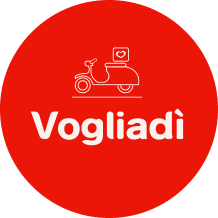
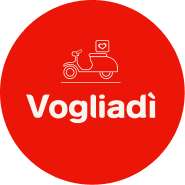
finito spashscreen

diff --git a/lib/screens/spashScreen.dart b/lib/screens/spashScreen.dart
@@ -2,6 +2,8 @@ import 'package:flutter/material.dart';
 import 'package:vogliadifood_app/utils/colors.dart';
 import 'package:vogliadifood_app/utils/helper.dart';
 
+import 'loginScreen.dart';
+
 
 class SplashScreen extends StatelessWidget {
   @override
@@ -20,7 +22,10 @@ class SplashScreen extends StatelessWidget {
             fit: BoxFit.fill,
           ),
     ),
-
+        Align(
+          alignment: Alignment.center,
+          child: Image.asset("assets/image/icona_rossa_elisse.png"),
+        ),
 
         Align(
           alignment: Alignment.bottomCenter,
@@ -31,35 +36,50 @@ class SplashScreen extends StatelessWidget {
         child: Column(
           children: [
             Flexible(child: Text(
-        "Voglia di l'app del food che c'è sempre per te",
+        "Voglia di l'app del food che c'è sempre per te. Accedi o regitrati per soddisfare le tue Vogliedì..",
               textAlign: TextAlign.center,
 
             ),),
 
-Spacer(),
+            Spacer(
+              flex: 1,
+            ),
+                        SizedBox(
+             width: double.infinity,
+            height: 50,
+            child: ElevatedButton(
+             onPressed: (){
+               Navigator.of(context)
+                   .pushReplacementNamed(LoginScreen.routeName);
+             },
+              style: TextButton.styleFrom(
+                primary: AppColors.Bianco, // Text Color
+              ),
+              child: Text("Login"),
+            ),
+             ),
             SizedBox(
- width: double.infinity,
-height: 50,
-child: ElevatedButton(
- onPressed: (){},
-  style: TextButton.styleFrom(
-    primary: AppColors.Bianco, // Text Color
-  ),
-  child: Text("Login"),
-),
- ),
-            Spacer(),
+              height: 20,
+            ),
             SizedBox(
               width: double.infinity,
               height: 50,
               child: ElevatedButton(
-                onPressed: (){},
-                style: TextButton.styleFrom(
-                  primary: AppColors.Bianco, // Text Color
+                style: ButtonStyle(
+                  backgroundColor: MaterialStateProperty.all(Colors.black),
+                  foregroundColor: MaterialStateProperty.all(AppColors.Bianco),
+                  shape: MaterialStateProperty.all(
+                    StadiumBorder(
+                      side:
+                        BorderSide(color: AppColors.Bianco, width: 1.5),
+                    ),
+                  ),
                 ),
+                onPressed: (){},
                 child: Text("Crea il tuo account"),
+                ),
+
               ),
-            )
             //minutaggio 15:56
           ],
 

diff --git a/lib/main.dart b/lib/main.dart
@@ -1,4 +1,5 @@
 import 'package:flutter/material.dart';
+import 'package:vogliadifood_app/screens/loginScreen.dart';
 import 'package:vogliadifood_app/utils/colors.dart';
 import './screens/spashScreen.dart';
 
@@ -18,12 +19,11 @@ class MyApp extends StatelessWidget {
         primarySwatch: Colors.red,
         elevatedButtonTheme: ElevatedButtonThemeData(style: ButtonStyle(backgroundColor: MaterialStateProperty.all(
           AppColors.Rosso,
-
-
         ),
           shape: MaterialStateProperty.all(
               StadiumBorder(),
           ),
+          elevation: MaterialStateProperty.all(0),
         ),
         ),
         textTheme: TextTheme(
@@ -33,6 +33,28 @@ class MyApp extends StatelessWidget {
         // useMaterial3: true,
 
       home: SplashScreen(),
+      routes: {
+        LoginScreen.routeName: (context) => LoginScreen(),
+        //SignUpScreen.routeName: (context) => SignUpScreen(),
+        //ForgetPwScreen.routeName: (context) => ForgetPwScreen(),
+        //SendOTPScreen.routeName: (context) => SendOTPScreen(),
+        //NewPwScreen.routeName: (context) => NewPwScreen(),
+        //IntroScreen.routeName: (context) => IntroScreen(),
+        //HomeScreen.routeName: (context) => HomeScreen(),
+        //MenuScreen.routeName: (context) => MenuScreen(),
+        //OfferScreen.routeName: (context) => OfferScreen(),
+        // ProfileScreen.routeName: (context) => ProfileScreen(),
+        // MoreScreen.routeName: (context) => MoreScreen(),
+        // DessertScreen.routeName: (context) => DessertScreen(),
+        // IndividualItem.routeName: (context) => IndividualItem(),
+        // PaymentScreen.routeName: (context) => PaymentScreen(),
+        // NotificationScreen.routeName: (context) => NotificationScreen(),
+        // AboutScreen.routeName: (context) => AboutScreen(),
+        // InboxScreen.routeName: (context) => InboxScreen(),
+        // MyOrderScreen.routeName: (context) => MyOrderScreen(),
+        // CheckoutScreen.routeName: (context) => CheckoutScreen(),
+        // ChangeAddressScreen.routeName: (context) => ChangeAddressScreen(),
+      },
     );
   }
 }

diff --git a/lib/screens/loginScreen.dart b/lib/screens/loginScreen.dart
@@ -1,0 +1,13 @@
+import 'package:flutter/material.dart';
+
+class LoginScreen extends StatelessWidget {
+  static const routeName = "/loginScreen";
+  @override
+  Widget build(BuildContext context) {
+    return Scaffold(
+      body: Center(
+        child: Text("Login Screen"),
+      )
+    );
+  }
+}
